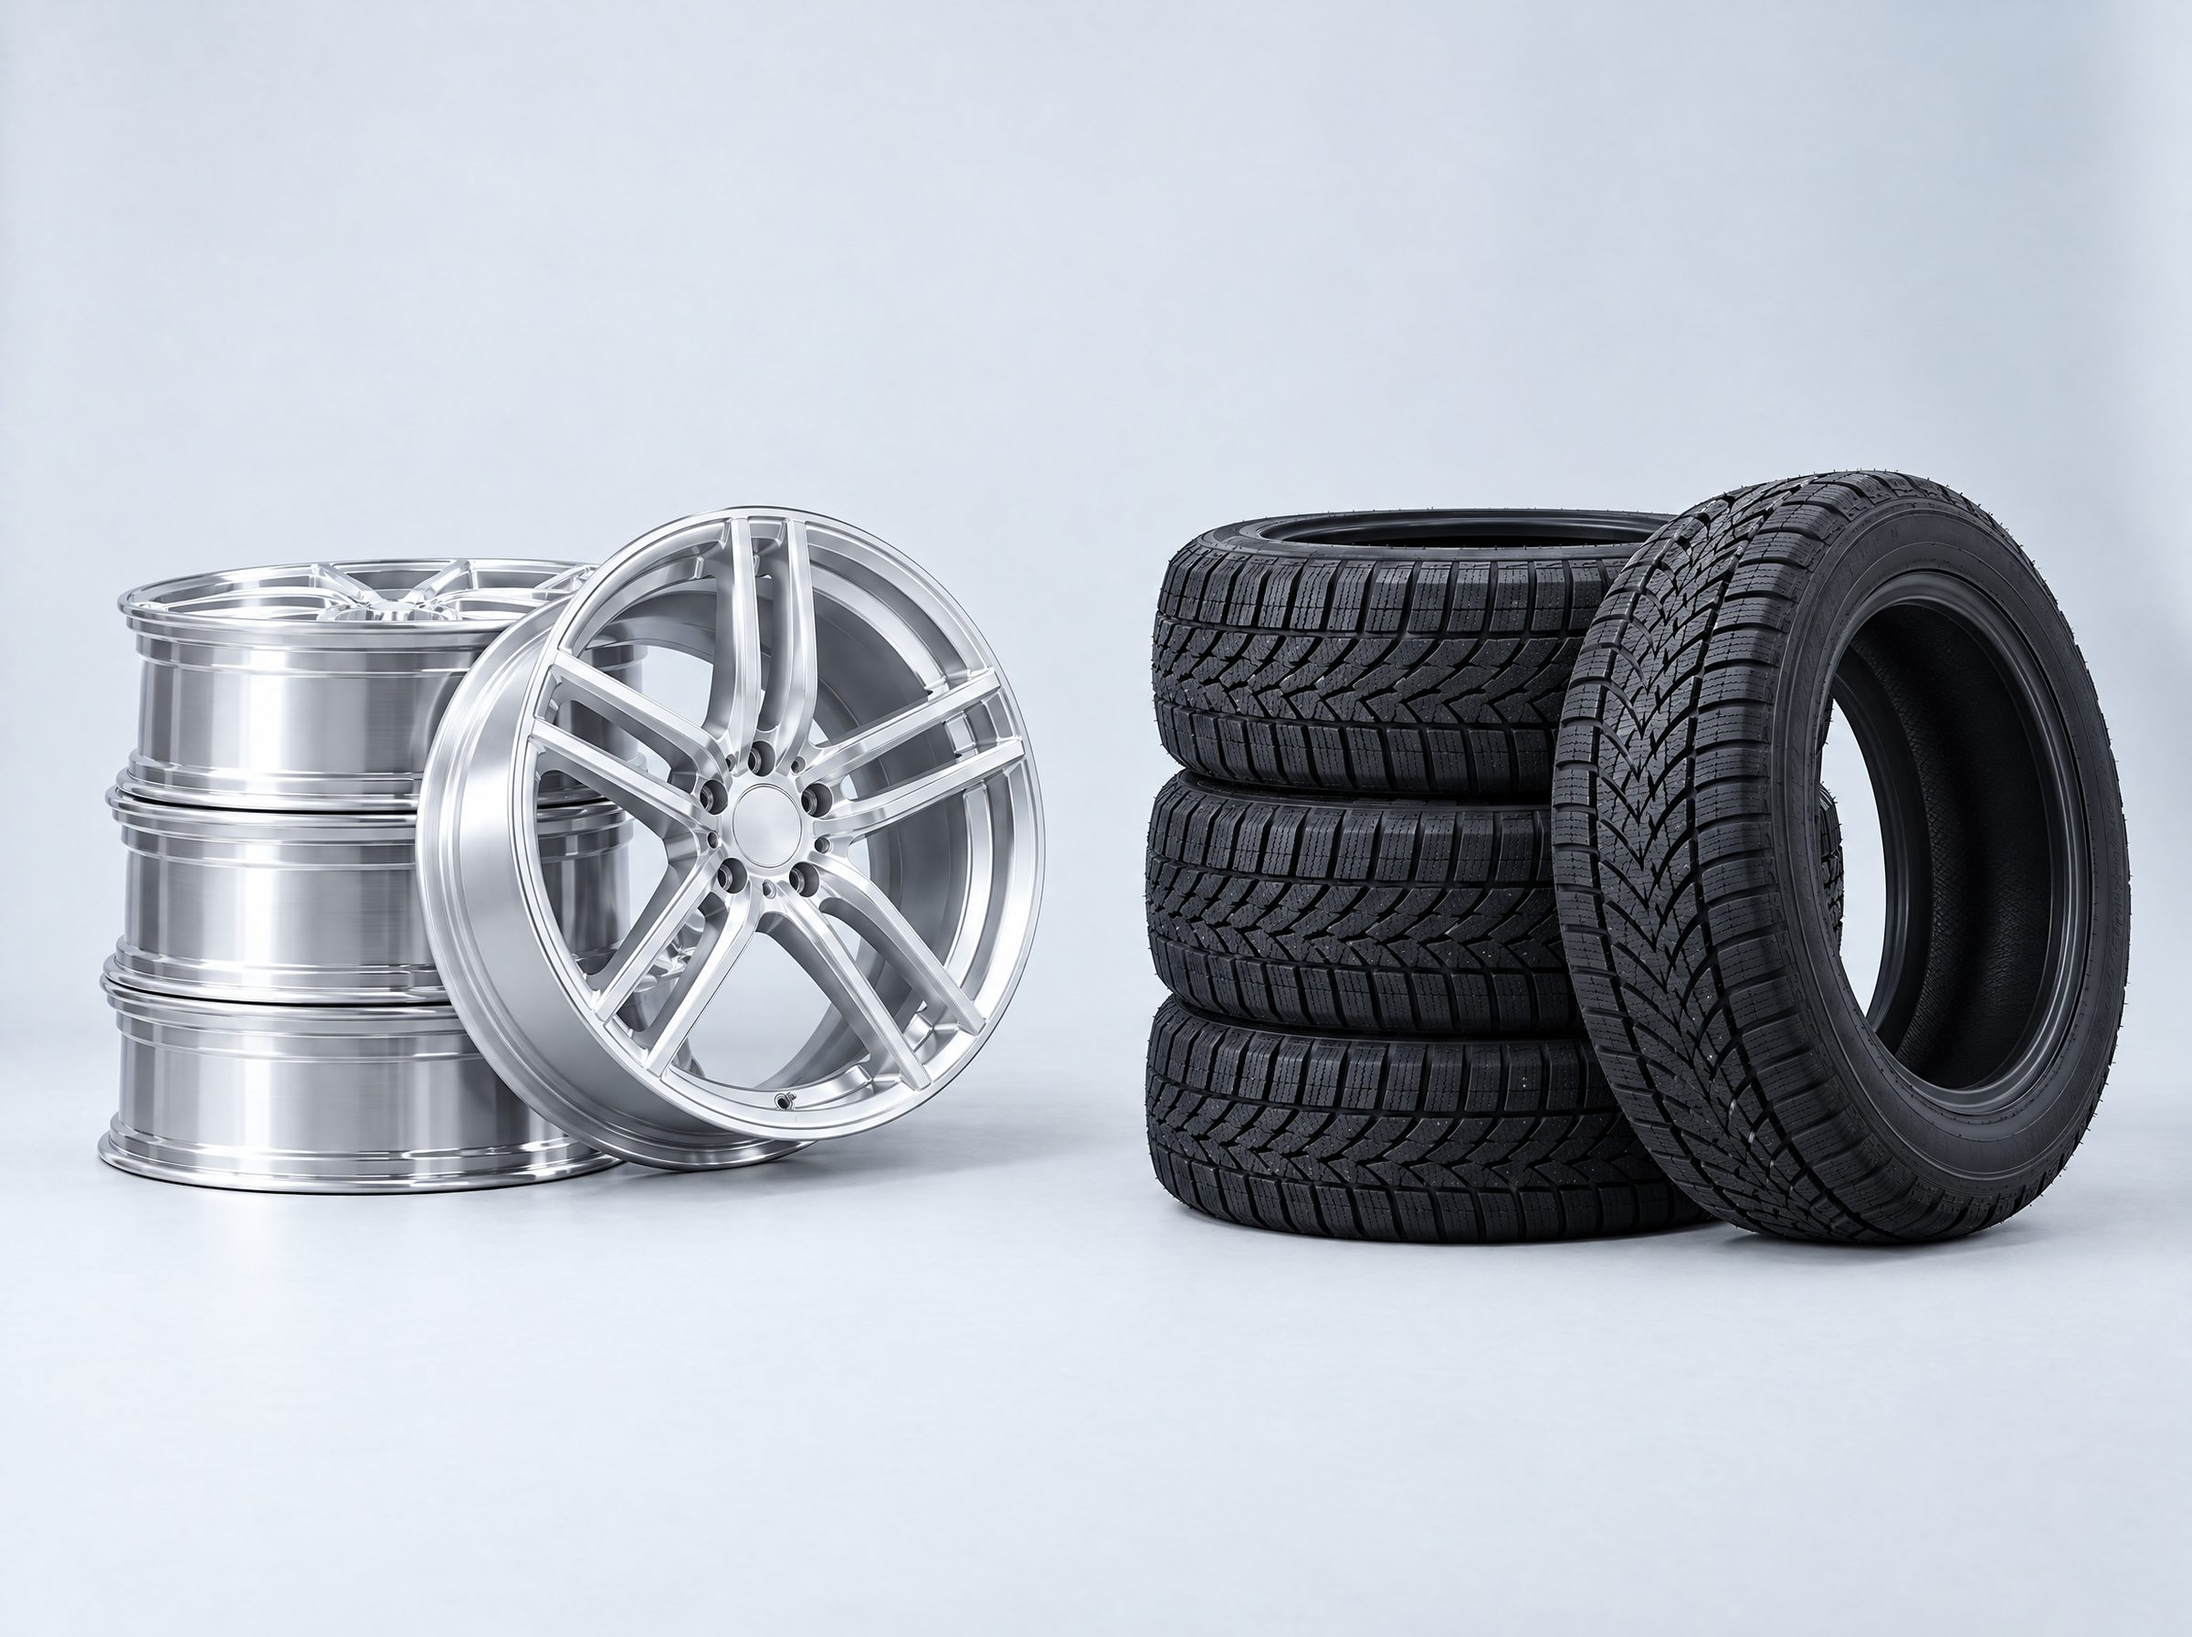
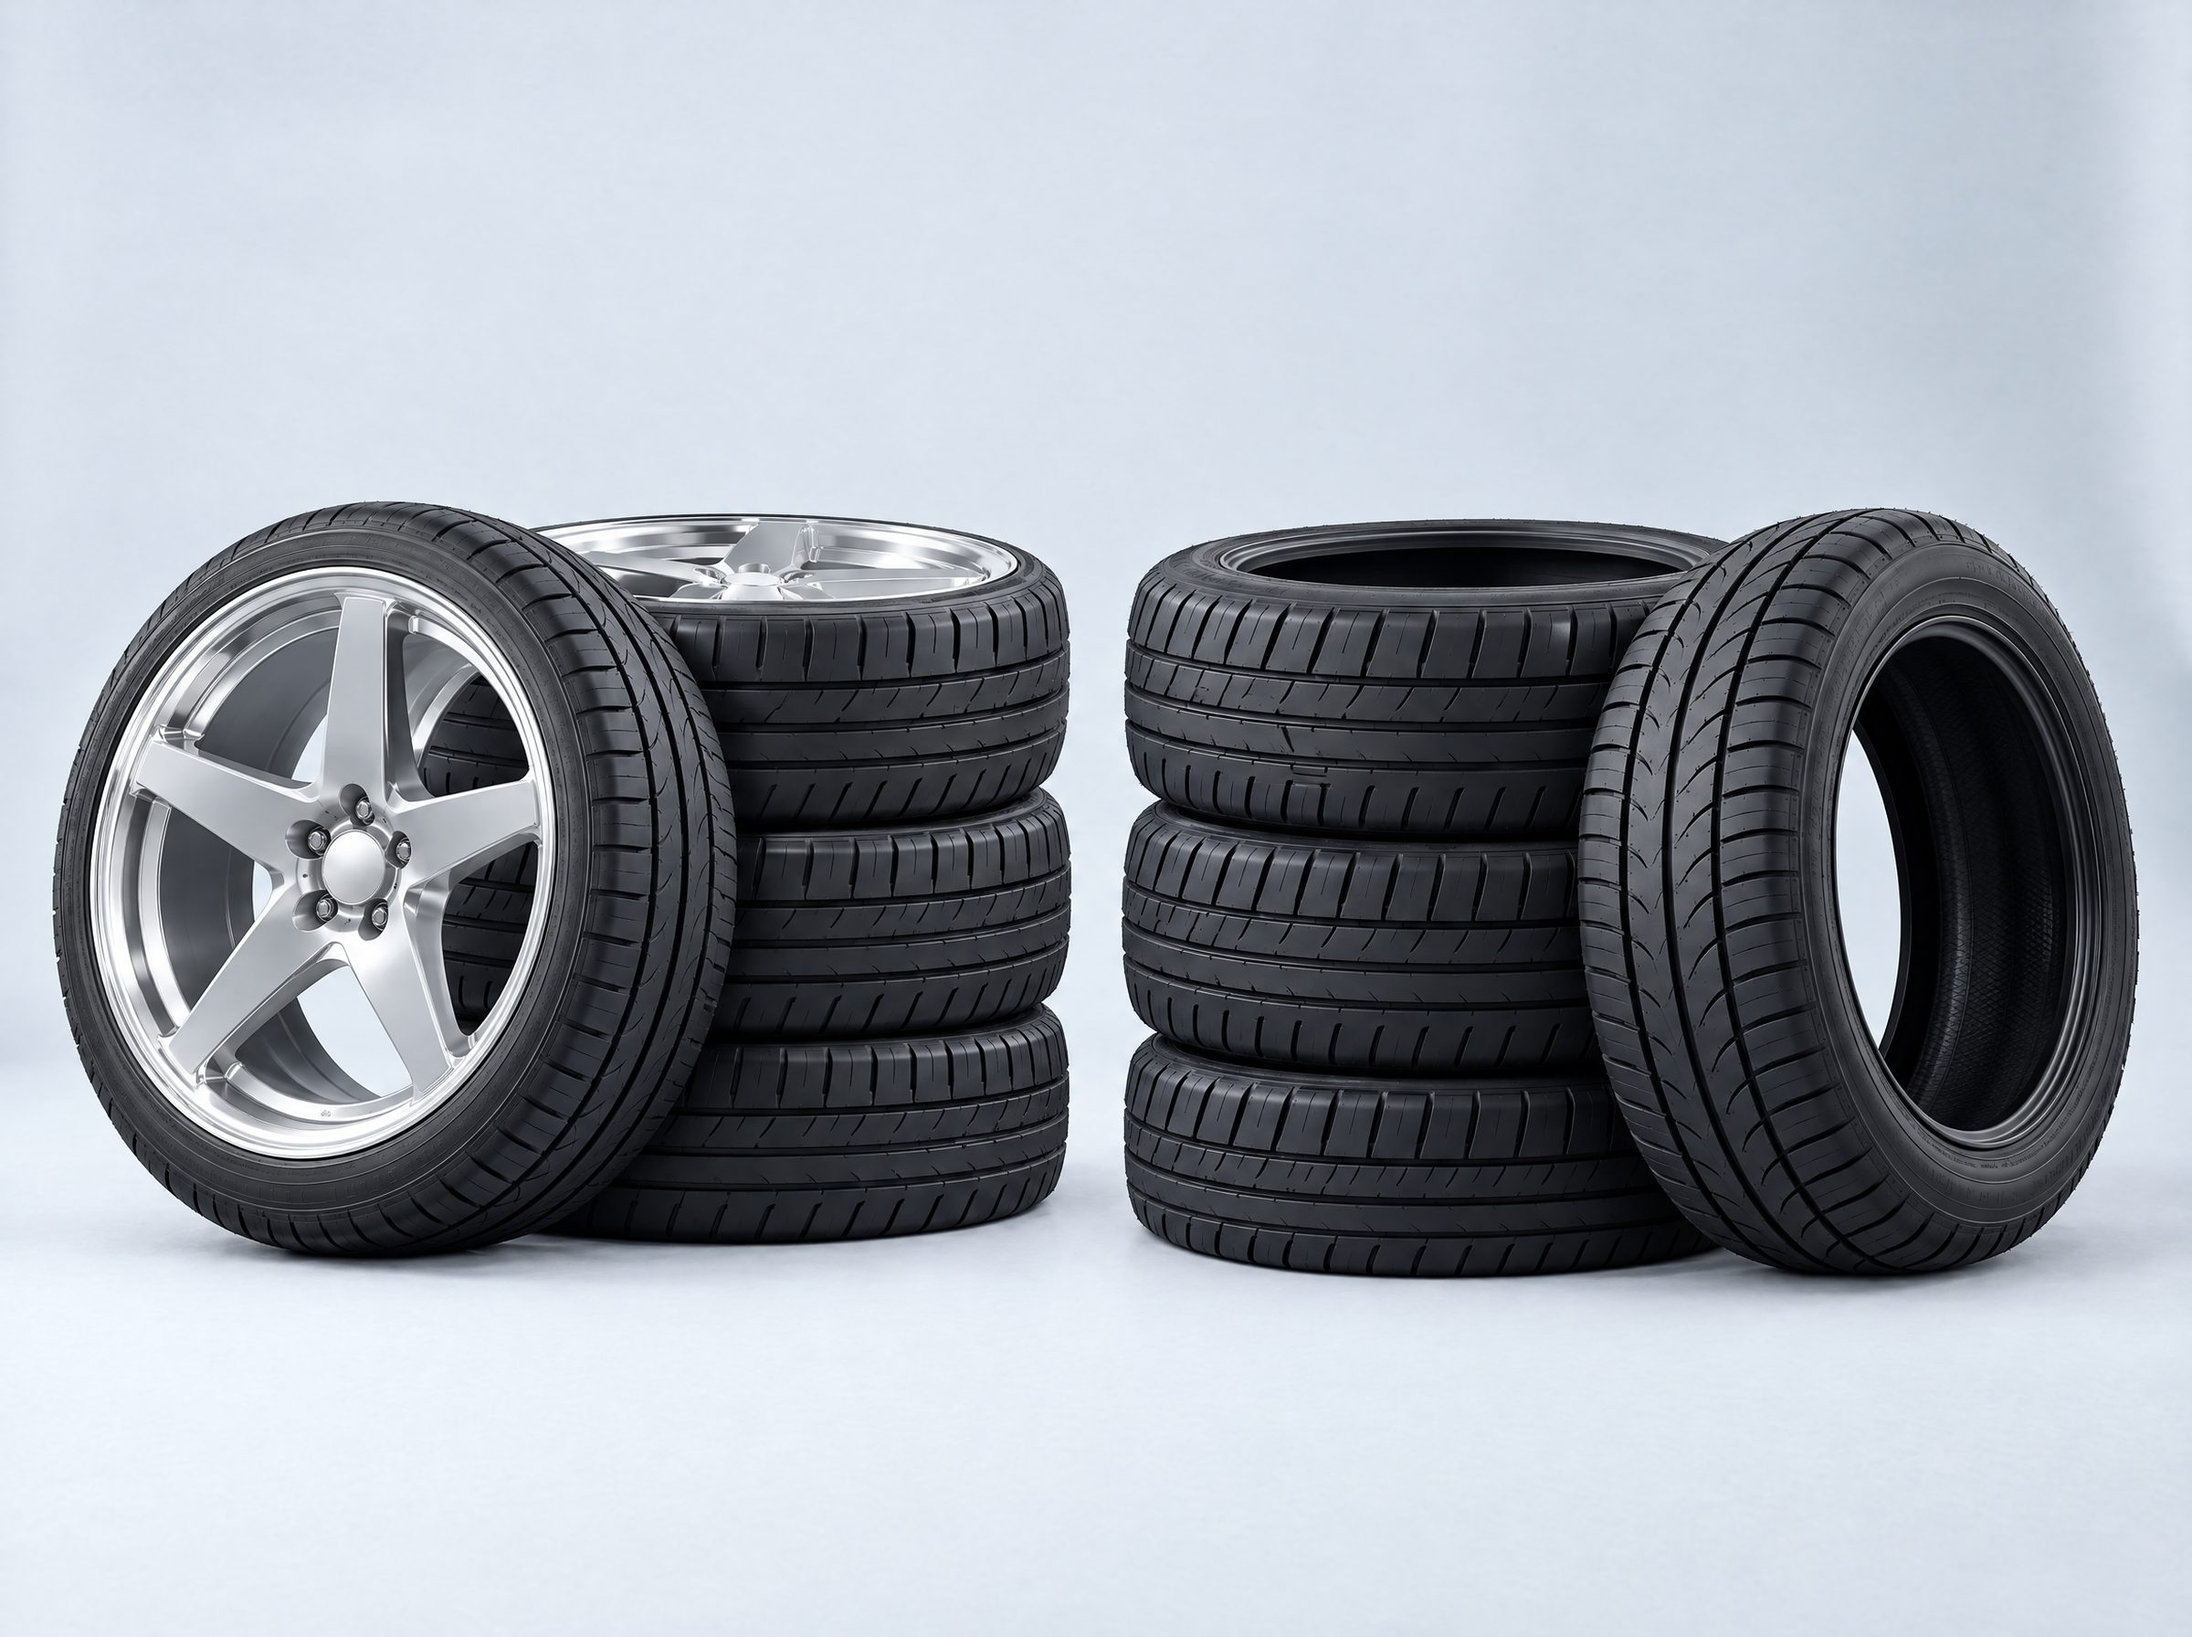
Services: five-spoke silver wheels in the tire photos; balancing shows mounted wheels and empty tires

Changed region(s): [[0.0, 0.2812, 1.0, 0.8125]]

diff --git a/lib/i18n/fr.ts b/lib/i18n/fr.ts
@@ -145,7 +145,7 @@ export const fr: Dict = {
     "p07-brakes": "Le disque et l’étrier neufs, posés et serrés au couple.",
     "d-oil": "De l’huile entièrement synthétique neuve et un filtre neuf.",
     "d-tires": "Trois roues d’été sur jantes en alliage argent empilées, une quatrième appuyée devant, à côté d’une pile semblable de roues d’hiver sur jantes d’acier noires, saupoudrées de neige.",
-    "d-install": "Une pile de trois jantes en alliage argent nues, une quatrième appuyée devant, à côté d’une pile de pneus neufs, un quatrième appuyé devant.",
+    "d-install": "Trois roues à jantes argent à cinq rayons avec pneus neufs, empilées, une quatrième appuyée devant, à côté d’une pile de pneus neufs vides, un quatrième appuyé devant.",
     "d-brakes": "Un disque, des plaquettes et un étrier neufs : un essieu complet.",
     "d-battery": "Une batterie neuve et le testeur qui vérifie la recharge.",
     "d-diag": "La tablette et le câble de diagnostic.",

diff --git a/lib/i18n/en.ts b/lib/i18n/en.ts
@@ -142,7 +142,7 @@ export const en = {
     "p07-brakes": "The new disc and caliper, fitted and torqued.",
     "d-oil": "Fresh full synthetic oil and a new filter.",
     "d-tires": "Three summer wheels on silver alloy rims stacked with a fourth leaning in front, beside a matching stack of winter wheels on black steel rims, dusted with snow.",
-    "d-install": "A stack of three bare silver alloy rims with a fourth leaning in front, beside a stack of new tires with a fourth leaning in front.",
+    "d-install": "Three wheels with silver five-spoke rims and new tires stacked with a fourth leaning in front, beside a stack of empty new tires with a fourth leaning in front.",
     "d-brakes": "A new disc, pads and caliper: one axle's worth.",
     "d-battery": "A new battery and the tester that checks the charging system.",
     "d-diag": "The diagnostic tablet and cable.",
